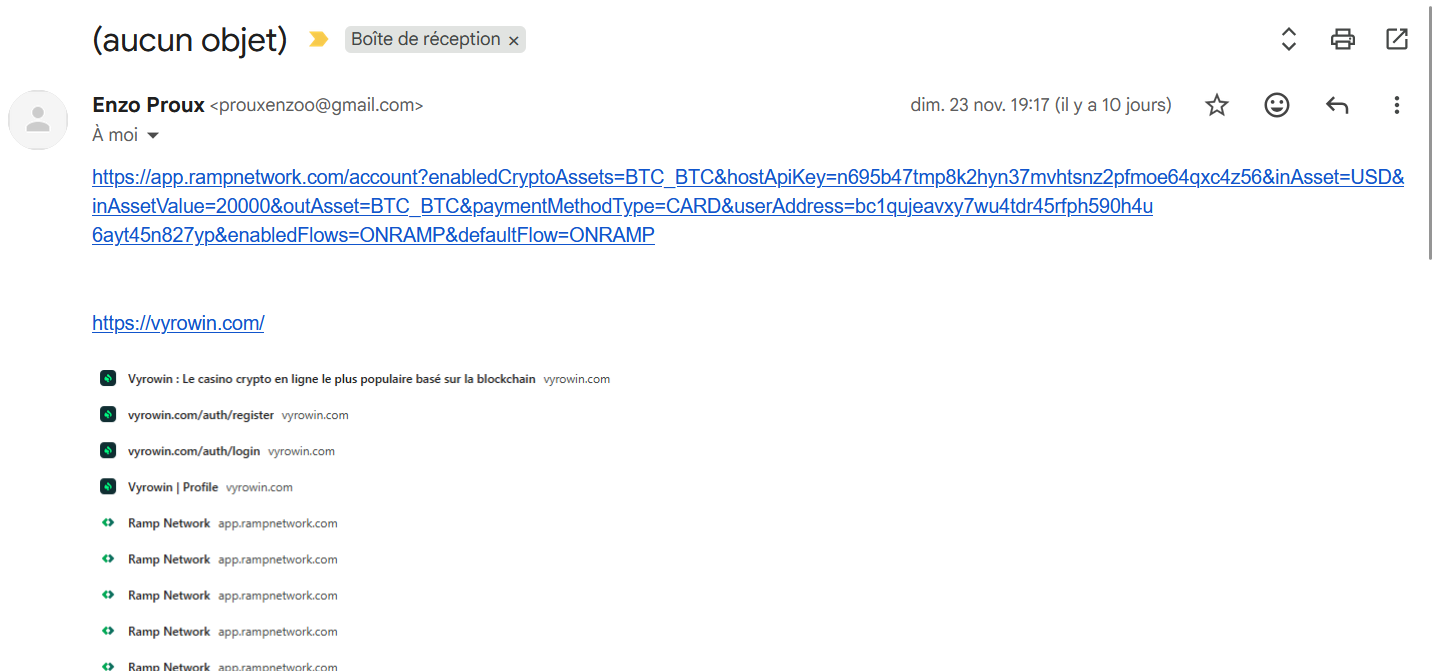
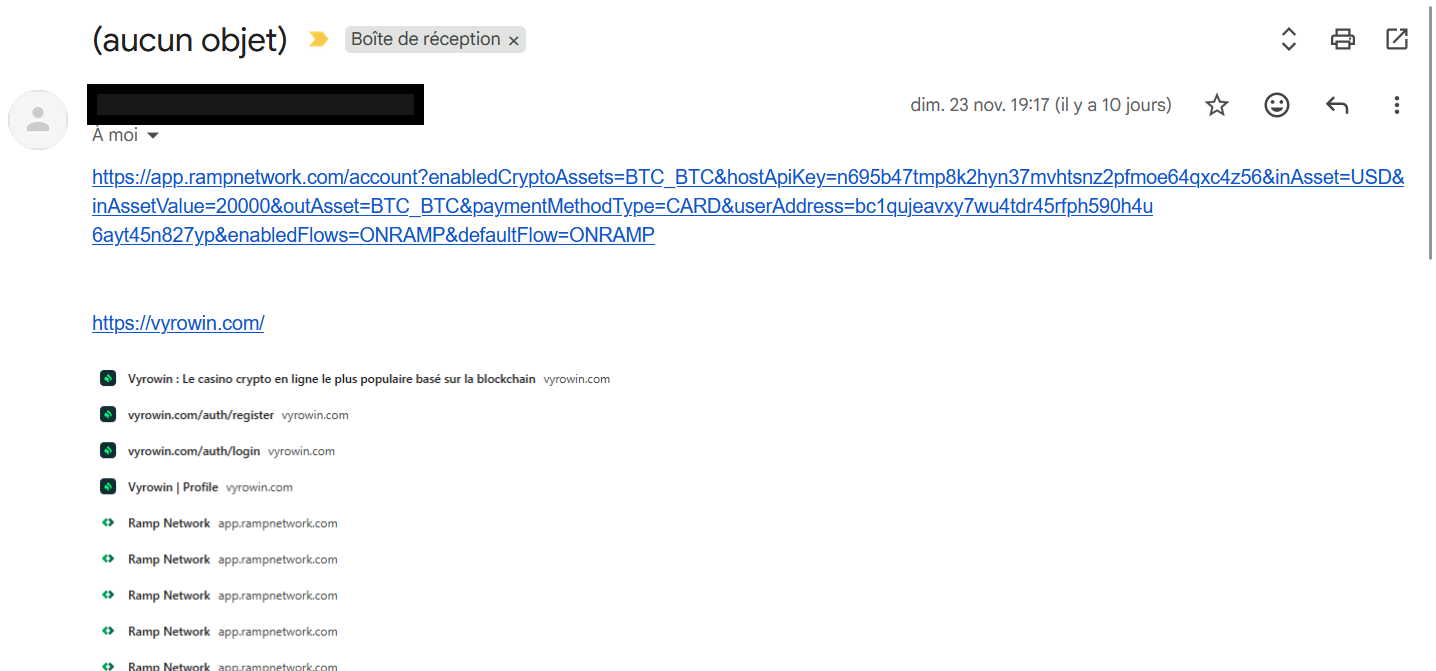
cc

Changed region(s): [[0.0613, 0.1192, 0.3064, 0.2086]]

diff --git a/scam-radar/enquete/readme.md b/scam-radar/enquete/readme.md
@@ -1,4 +1,4 @@
-# Enquête ENZO : Analyse d'une arnaque à l'investissement
+# Enquête E*** : Analyse d'une arnaque à l'investissement
 
 Il s'agit d'une arnaque basée sur une promesse d'investissement, où la victime est incitée à envoyer des fonds via une URL frauduleuse.
 
